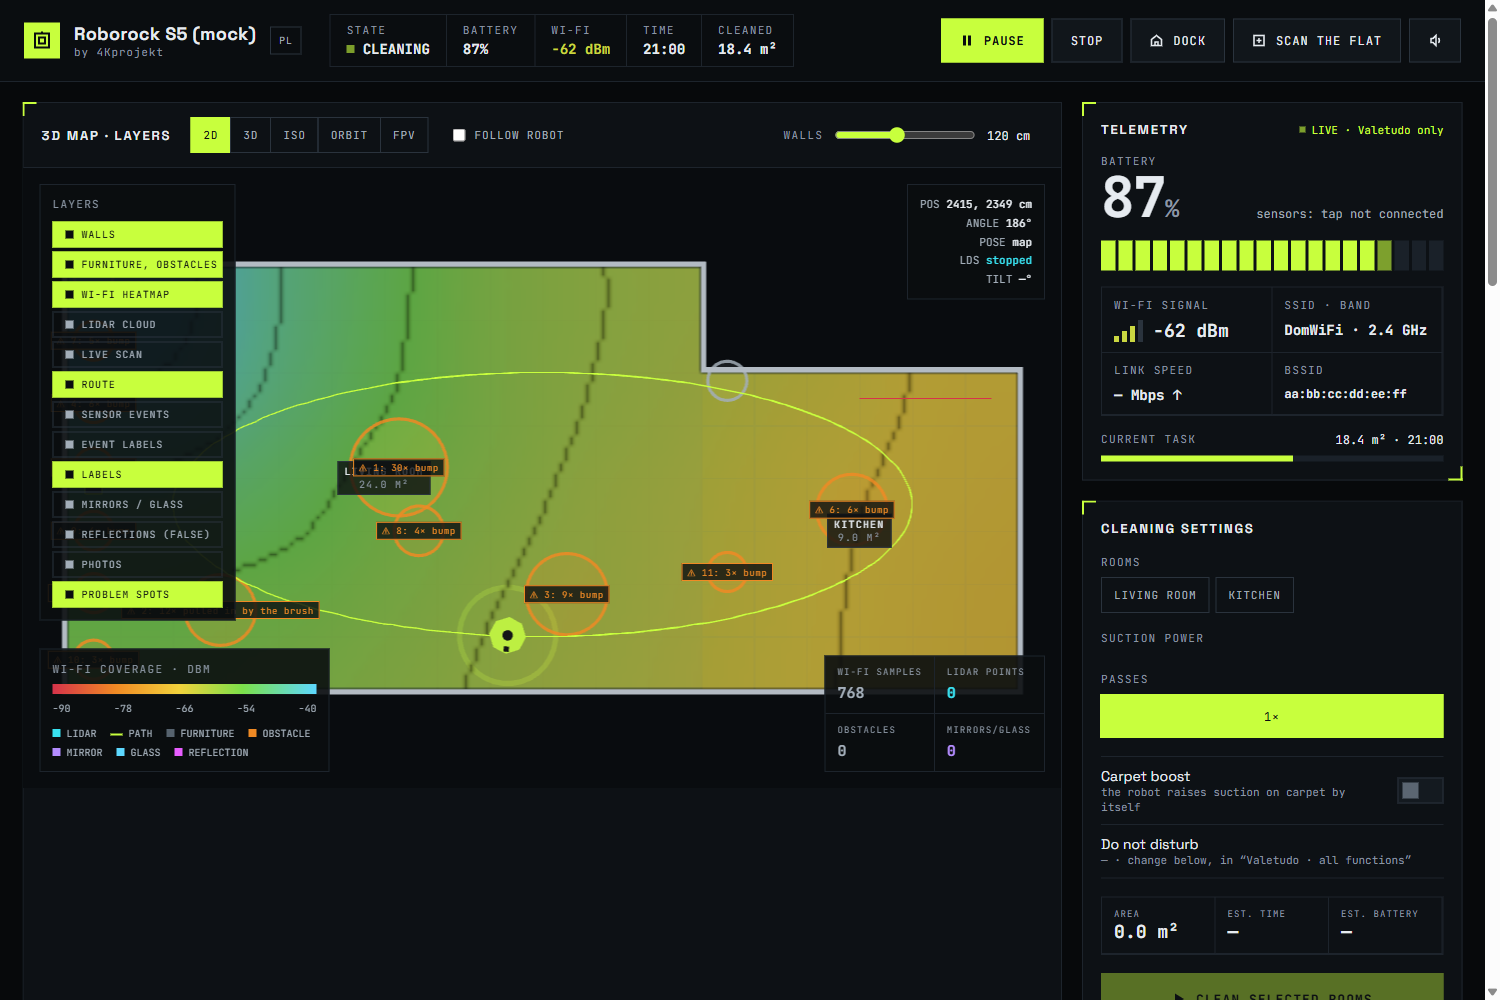
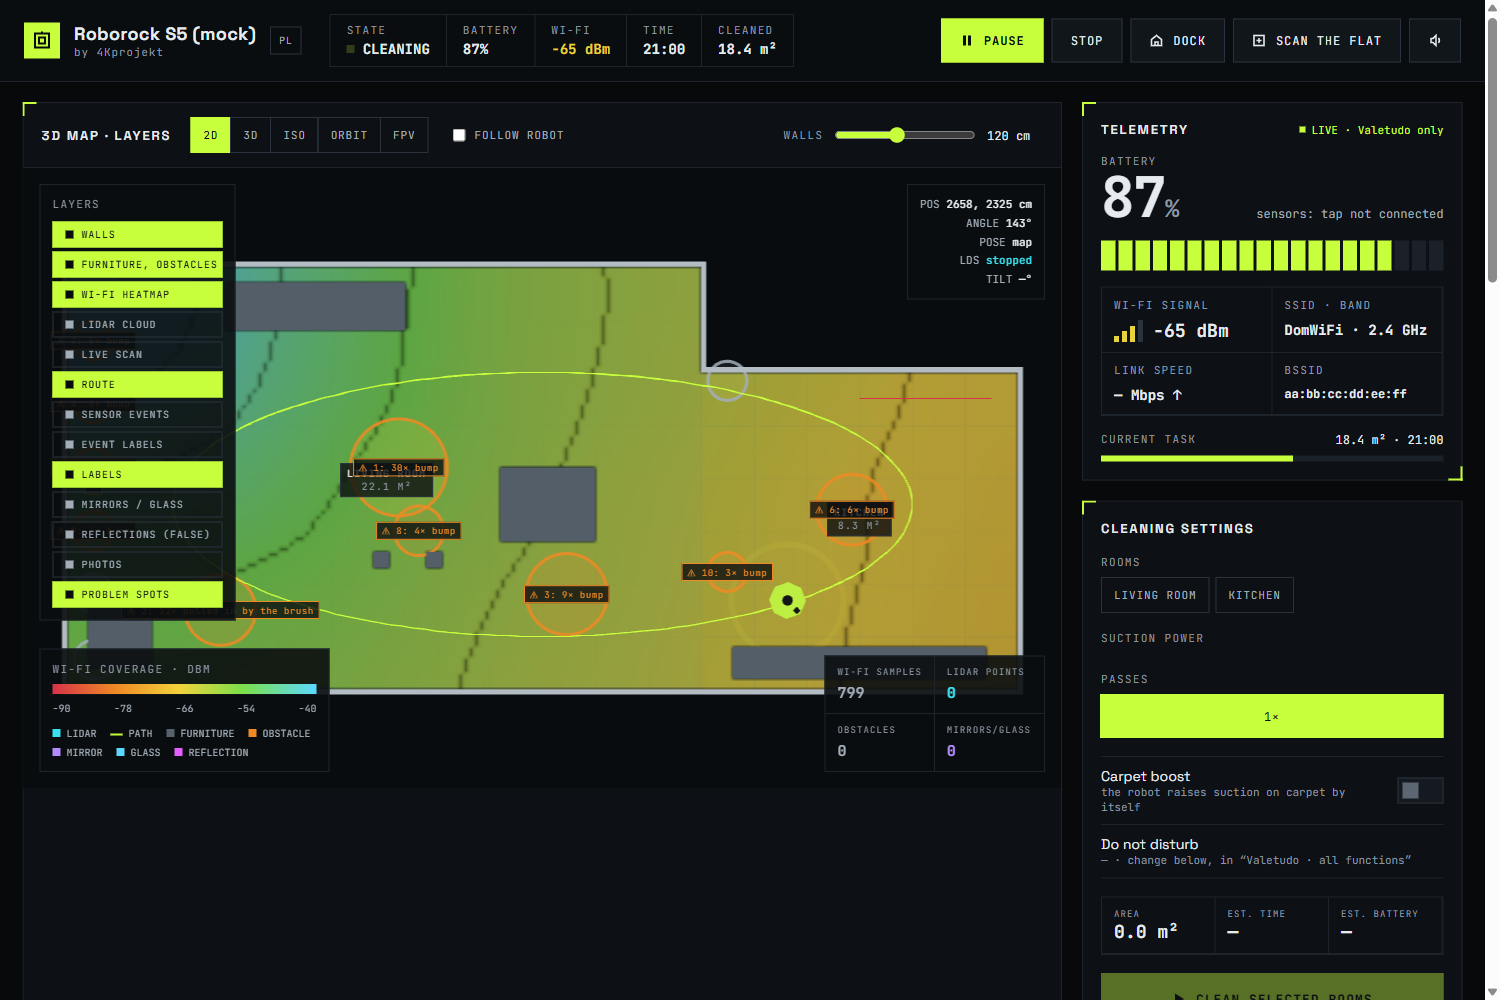
README: 3D hero screenshot, mock map with furniture

diff --git a/mock_robot.py b/mock_robot.py
@@ -37,11 +37,16 @@ def signal_at(x, y):
     return round(-30 - 30 * math.log10(1 + d / 50) + random.uniform(-2, 2))
 
 
+FURNITURE = [(30, 3, 34, 9), (82, 38, 18, 14), (4, 62, 12, 14), (126, 72, 48, 6), (58, 54, 3, 3), (68, 54, 3, 3)]  # x, y, w, h [px]
+
+
 def build_map():
     inside = set().union(*(room_pixels(*r[2:]) for r in ROOMS))
     walls = {(x + dx, y + dy) for x, y in inside for dx in (-1, 0, 1) for dy in (-1, 0, 1)} - inside
+    furniture = set().union(*(room_pixels(*f) for f in FURNITURE))   # sofa, table, shelf, counter, chair legs
+    walls |= furniture
     layers = [{"__class": "MapLayer", "type": "segment", "pixels": [],
-               "compressedPixels": compress(room_pixels(*r[2:])),
+               "compressedPixels": compress(room_pixels(*r[2:]) - furniture),
                "metaData": {"segmentId": r[0], "name": r[1], "active": False, "area": r[4] * r[5] * PS * PS}}
               for r in ROOMS]
     layers.append({"__class": "MapLayer", "type": "wall", "pixels": [], "compressedPixels": compress(walls),

diff --git a/README.md b/README.md
@@ -4,11 +4,13 @@ A local control panel and AI (MCP) bridge for a Roborock vacuum running [Valetud
 2D/3D map, live raw lidar, MCU sensor data (bumper, cliff, wheel and brush current), cleaning history,
 Wi-Fi heatmap, "problem spots" where the robot keeps bumping into things, no-go zones and scripted routes.
 
-![2D map with the Wi-Fi heatmap, route and problem spots](docs/panel_2d.png)
+![3D view: Wi-Fi heatmap on the floor, furniture, route and problem spots](docs/panel_3d.png)
 
-| First-person view (FPV) | Run history and replay |
+| 2D map | First-person view (FPV) |
 | :---: | :---: |
-| ![FPV view with the Wi-Fi heatmap on the floor](docs/panel_fpv.png) | ![Run history, replay chart and Wi-Fi by room](docs/panel_history.png) |
+| ![2D map with the Wi-Fi heatmap, route and problem spots](docs/panel_2d.png) | ![FPV view from the robot with the Wi-Fi heatmap on the floor](docs/panel_fpv.png) |
+
+![Run history, replay chart and Wi-Fi by room](docs/panel_history.png)
 
 ![Manual control, step programs, events and problem spots](docs/panel_control.png)
 
